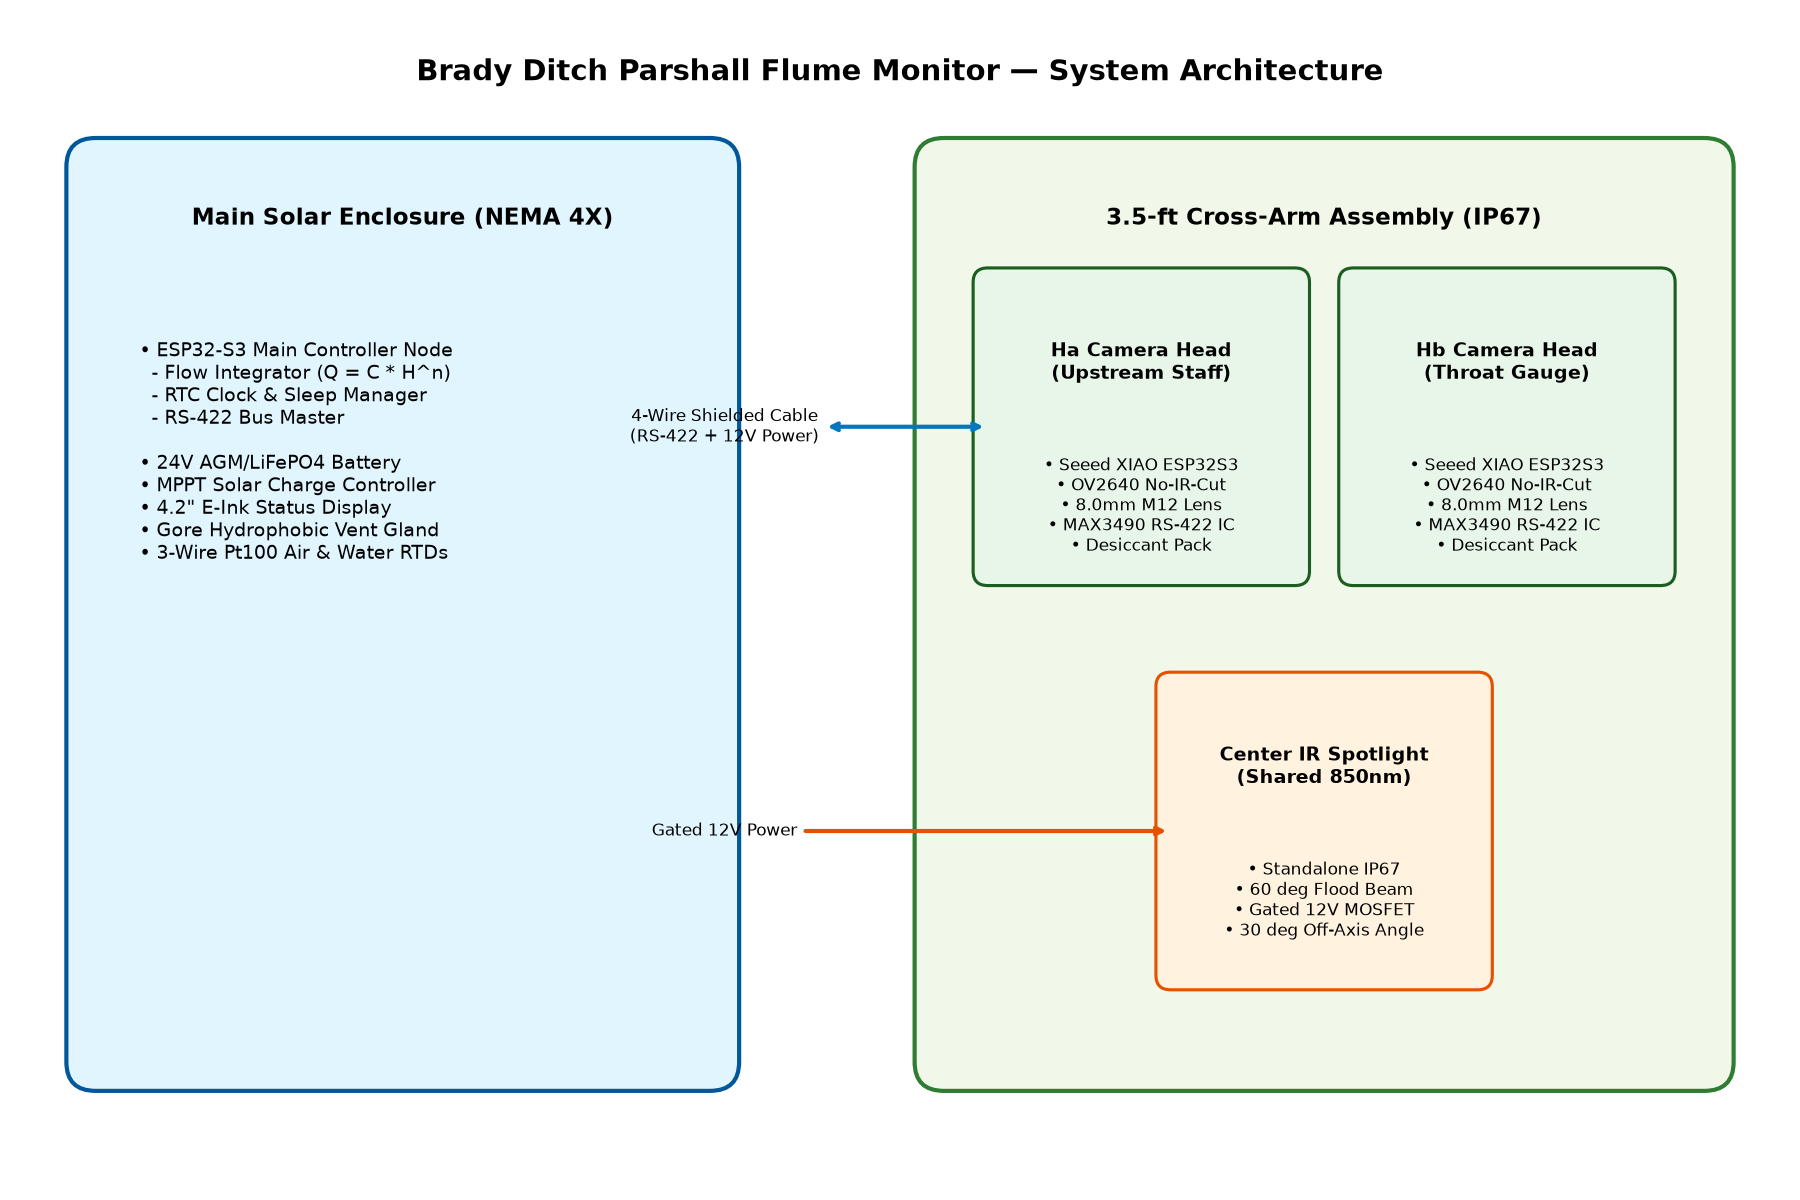
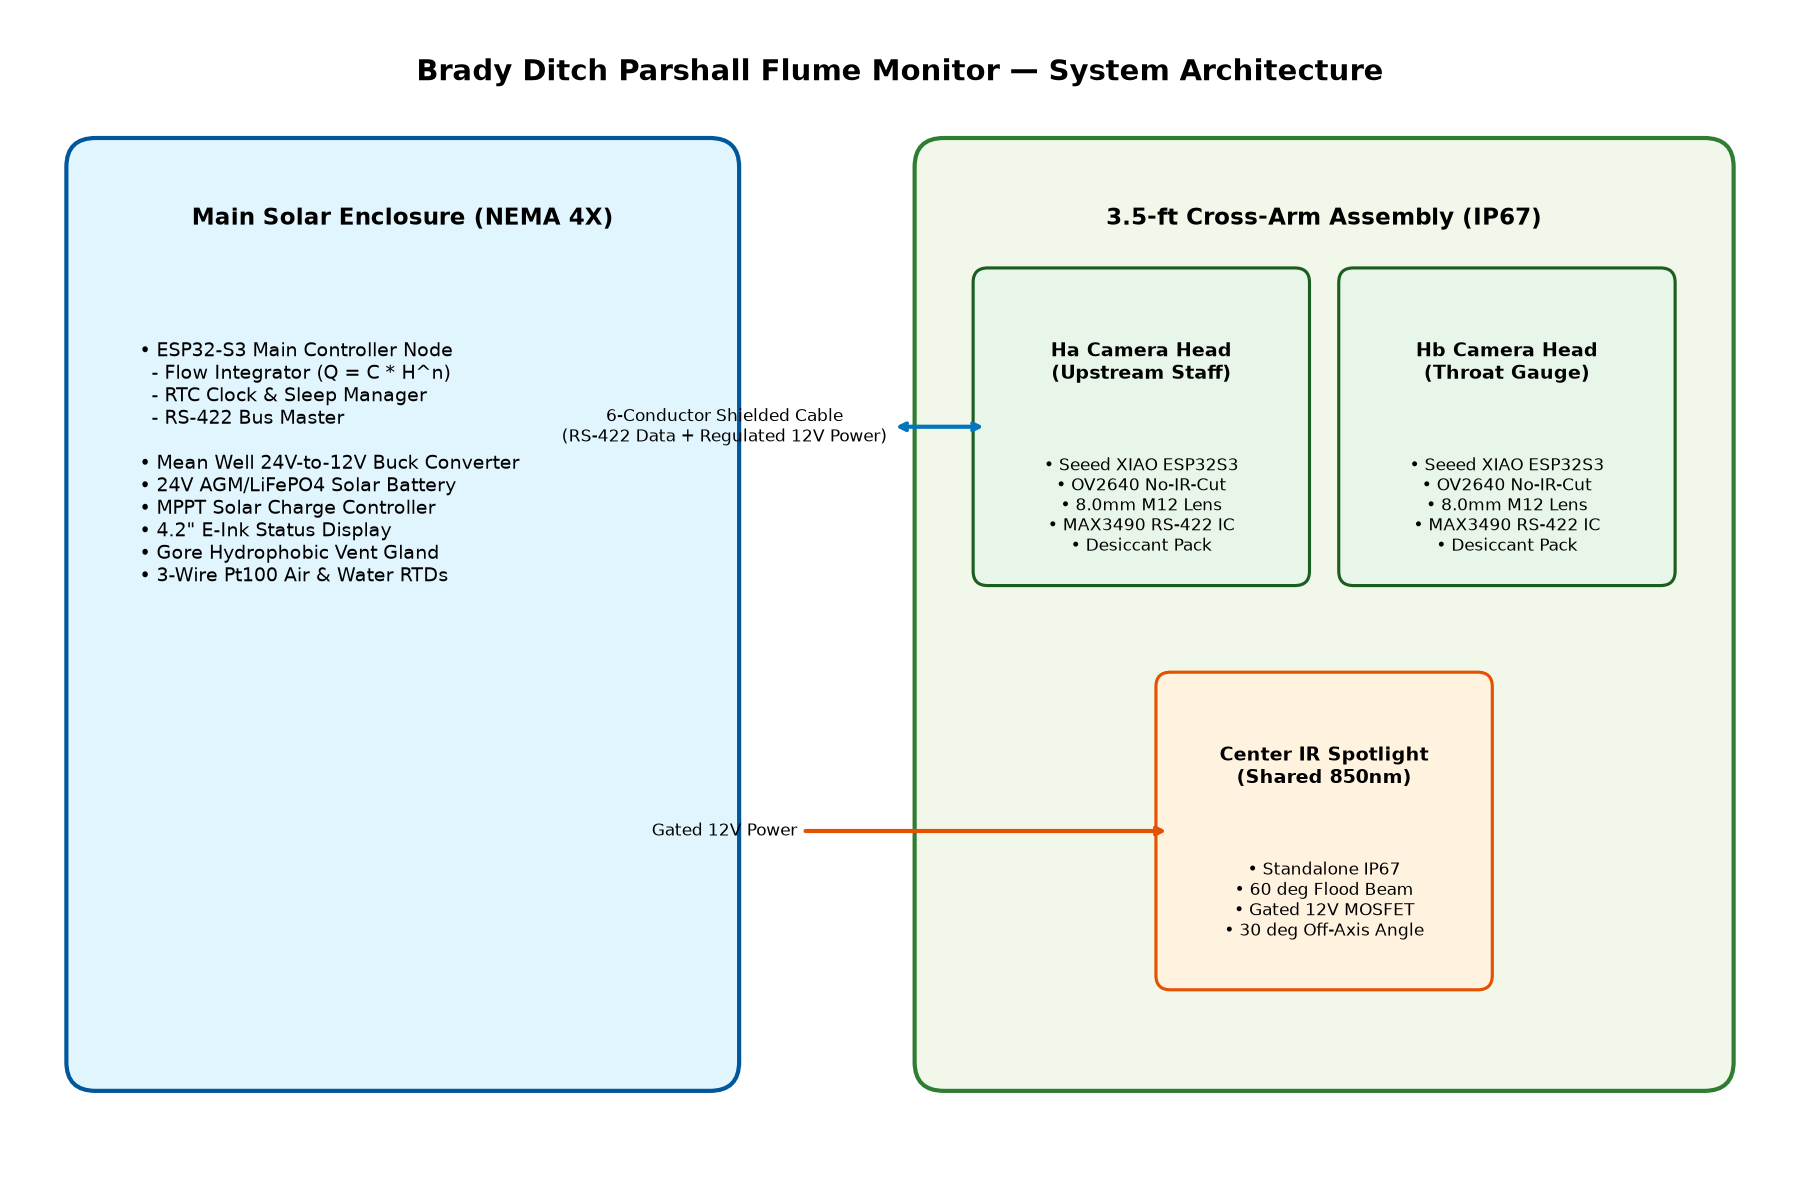
Update Mermaid diagram and architecture PNG to specify 6-conductor cable for RS-422 and 12V power

Changed region(s): [[0.0622, 0.37, 0.28, 0.4933], [0.3111, 0.3392, 0.4978, 0.37]]

diff --git a/README.md b/README.md
@@ -33,8 +33,8 @@ graph TD
         Hb_Cam[Hb Camera Box: Seeed XIAO ESP32S3 + OV2640 + MAX3490]
     end
 
-    Main_ESP32 <==>|4-Wire Shielded RS-422 Cable| Ha_Cam
-    Main_ESP32 <==>|4-Wire Shielded RS-422 Cable| Hb_Cam
+    Main_ESP32 <==>|6-Conductor Shielded Cable (RS-422 + 12V Power)| Ha_Cam
+    Main_ESP32 <==>|6-Conductor Shielded Cable (RS-422 + 12V Power)| Hb_Cam
     Main_ESP32 --->|Gated 12V MOSFET Power| Center_IR
 ```
 
